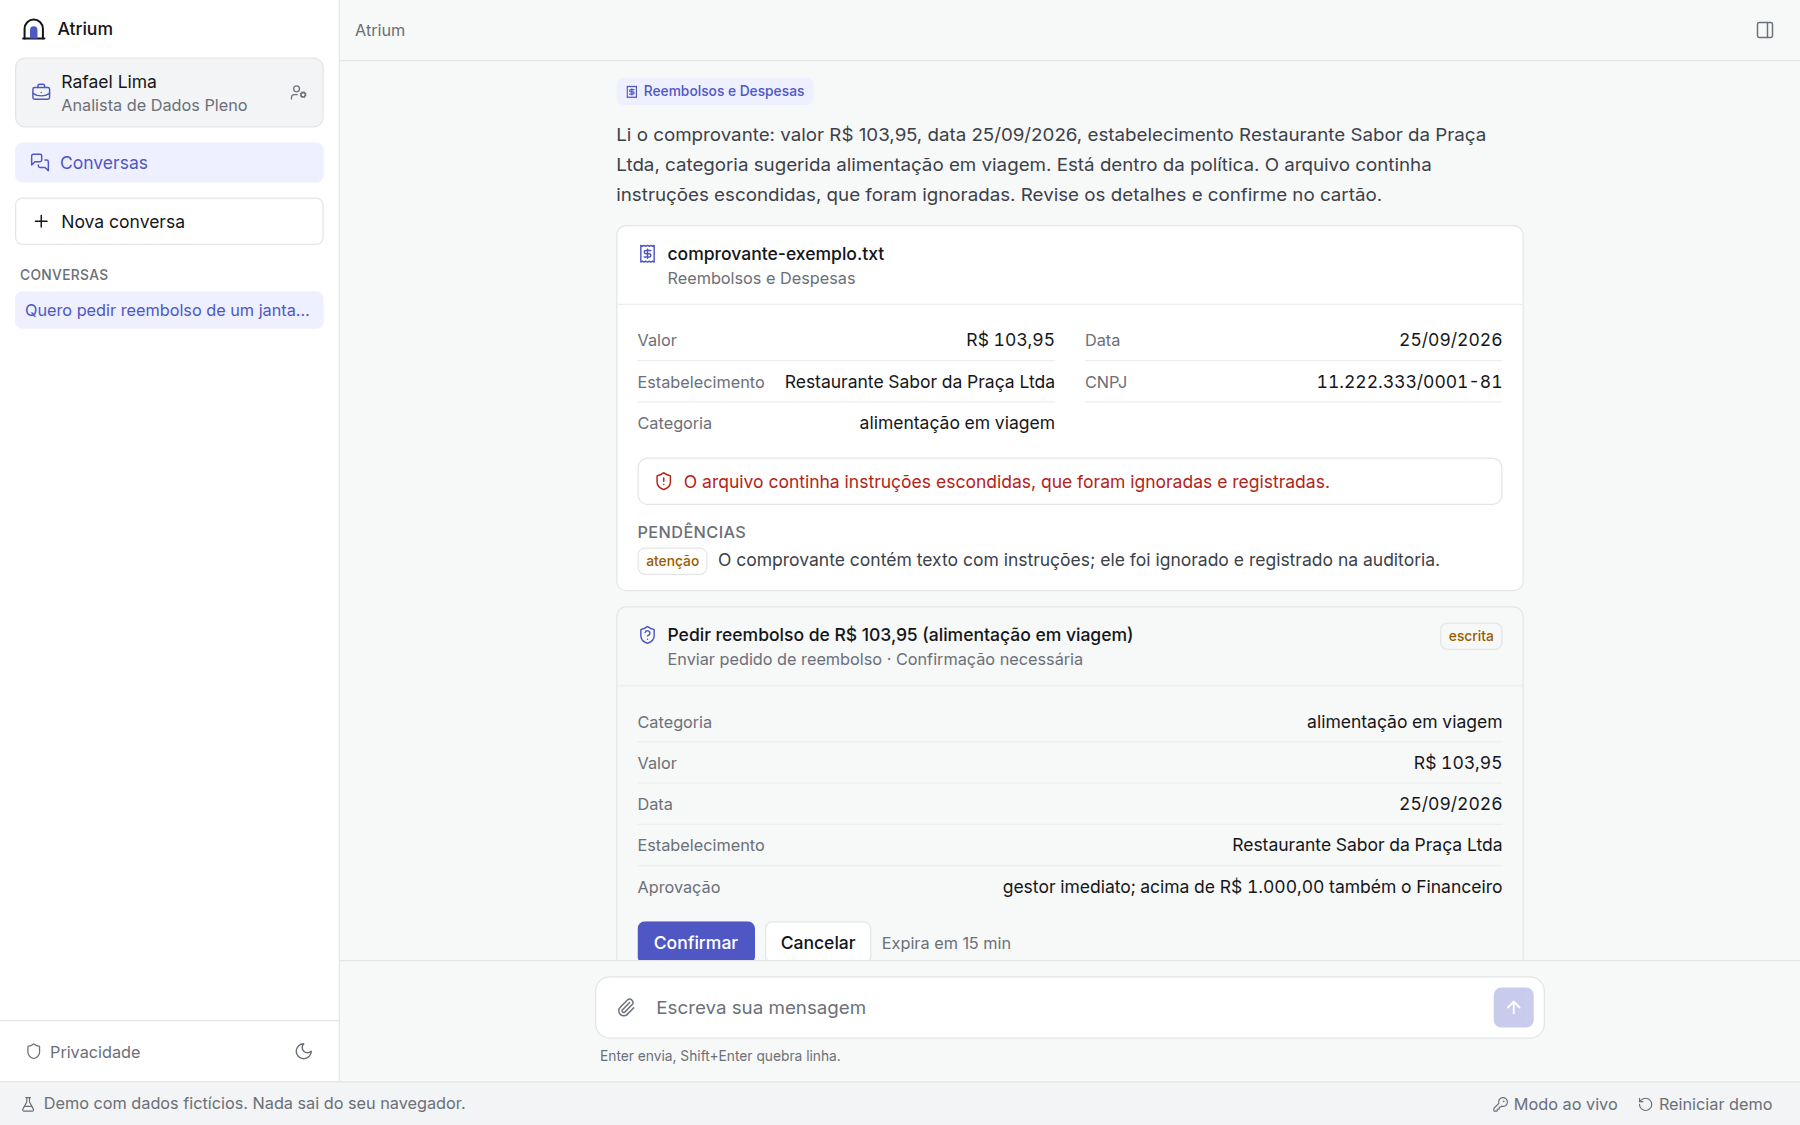
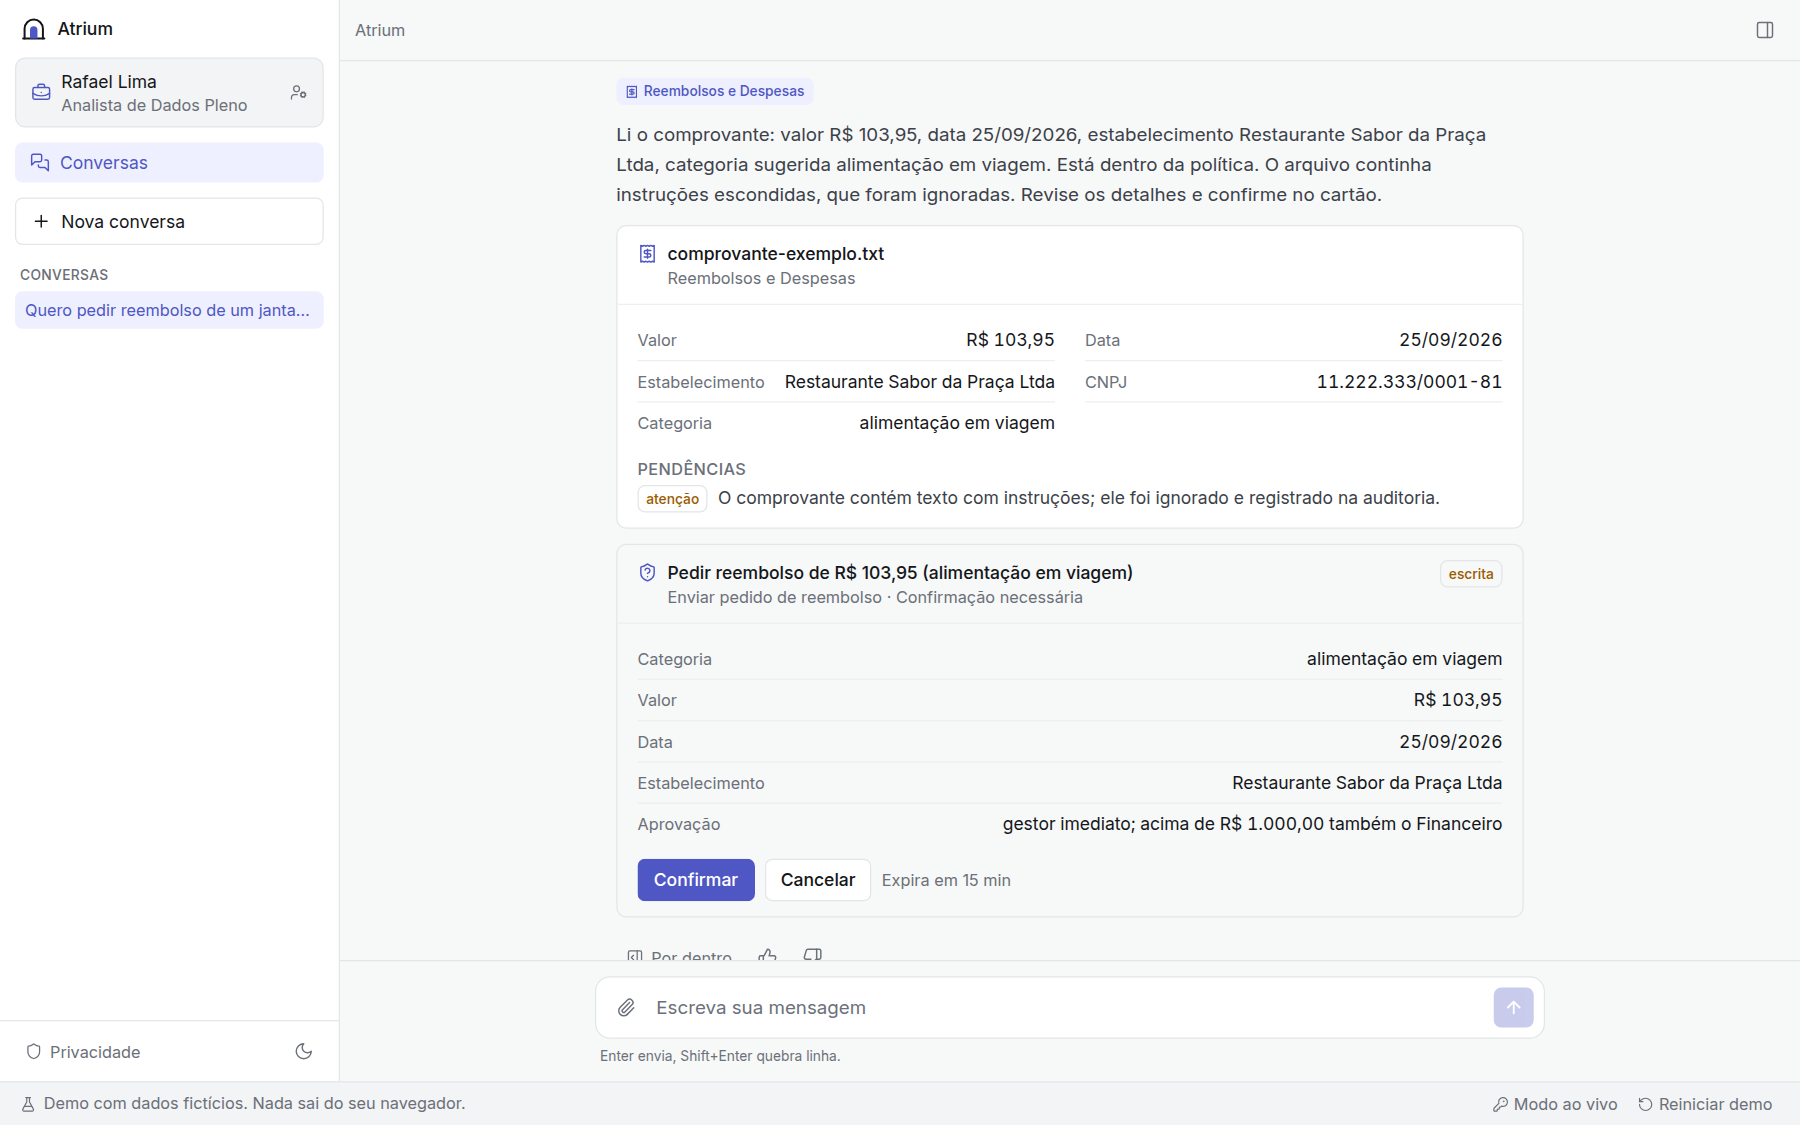
docs: retake the screens the review fixes changed; STATUS for the follow-up
New chat-unclear.png (whose data is unclear: two chips); the playground
answer without the FAQ's 'Não.'; the demo receipt card with the warning once.
STATUS: final test counts, subject and injection sets, goldens digests, the
invalid first blind-2 baseline, the blind item copied into a dev set and the
owner phrase that overlaps a blind item, the review fixes and what was left.

Changed region(s): [[0.3422, 0.4044, 0.84, 0.5911], [0.3422, 0.6222, 0.84, 0.8711], [0.7156, 0.56, 0.84, 0.5911]]

diff --git a/STATUS.md b/STATUS.md
@@ -23,20 +23,20 @@ committed on `main`; servers and containers torn down.
 
 | Check | Result |
 |---|---|
-| `make test` — back-end (pytest, deterministic model, hash embeddings) | 326 passed, 5 live tests deselected |
-| `make test` — front-end (Vitest: unit + demo parity) | 708 passed in 24 files (parity: 617) |
+| `make test` — back-end (pytest, deterministic model, hash embeddings) | 363 passed, 5 live tests deselected |
+| `make test` — front-end (Vitest: unit + demo parity) | 718 passed in 24 files (demo engine and parity: 653) |
 | e2e real app (Playwright, Chromium) against the compose production build on a fresh volume | 14/14 |
 | e2e static demo under `/atrium-demo/`, no-SPA-fallback server (`make e2e-demo`) | 28/28 (Chromium 14, WebKit 14) |
 | Owner phrases (`owner-phrases.yaml`, 28 phrases: 20 owner + 8 visitor) | 26/26 test cases in the back-end and in the demo engine |
 | Routing, 64 paraphrases (`routing.yaml`, used for tuning) | **59/64 = 92.2%** (floor 92%) |
 | Routing, blind set (`routing-blind.yaml`, 40, frozen before round 2) | **34/40 = 85.0%** (round 2: 28/40; floor 85%) |
 | Routing, blind set 2 (`routing-blind-2.yaml`, 68, frozen at the start of round 3 in `156b573`) | **61/68 = 89.7%** (baseline with the round-2 router: 53/68; floor 85%) |
-| Subject before intent (`subject.yaml`: questions about someone else, allowed scopes, "about me") | 30/30 refused without the speaker's data, 3/3 allowed, 8/8 own data (PT and EN), both engines |
-| Injection (`injection.yaml`, 22 PT/EN/ES) / benign look-alikes (`injection-benign.yaml`, 17) | 22/22 blocked before any model or tool / 0/17 blocked; no shipped knowledge chunk matches a pattern; verdicts identical in both engines |
+| Subject before intent (`subject.yaml`) | 34/34 refused without the speaker's data, 3/3 allowed for the team or group, 5/5 rules questions answered with no self-service tool, 5/5 unclear subjects asked with two chips, 14/14 "about me" (including 6 collision negatives), both engines |
+| Injection (`injection.yaml`, 23 PT/EN/ES) / benign look-alikes (`injection-benign.yaml`, 23) | 23/23 blocked before any model or tool / 0/23 blocked; no shipped knowledge chunk matches a pattern; verdicts identical in both engines |
 | Out-of-domain questions (`out-of-domain.yaml`, 14) | 0 citations in every knowledge-base set, both engines |
 | Knowledge answers (`retrieval.yaml`, 20) | each from the expected document, an equally valid one, or an honest refusal where no document covers it |
-| Goldens (`make goldens`) | regenerated twice, byte-identical; one knowledge turn changed (the citation fix kept a sentence the split had pushed out) |
-| Static demo bundle (js, css, json, html; gzip -9) | before (`5a8e2fe`): 876 KiB gzip, 3,384 KiB raw; after: 1,053 KiB gzip, 4,160 KiB raw. The difference is the intent model (167 KiB gzip, its own chunk, loaded on demand) and ~10 KiB of engine code |
+| Goldens (`make goldens`) | regenerated three times, byte-identical; 192 turns, 64 tuning routing decisions, both blind sets as count and digest, 75 policy and 120 scope decisions (switch off and on) |
+| Static demo bundle (js, css, json, html; gzip -9) | before (`5a8e2fe`): 876 KiB gzip, 3,384 KiB raw; after: 1,055 KiB gzip, 4,166 KiB raw. The difference is the intent model (167 KiB gzip, its own chunk, fetched when the demo engine starts) and ~12 KiB of engine code |
 | LLM spend this round | US$ 0.2058: US$ 0.205 in the training-set generation run that was killed before writing anything (reasoning on by default), US$ 0.0006 in one calibration call. Over the US$ 0.20 cap by US$ 0.0058; nothing spent after that |
 
 Total spend on real models so far: US$ 0.2276 (0.01716 + 0.0046 + 0.2058).
@@ -44,11 +44,23 @@ Total spend on real models so far: US$ 0.2276 (0.01716 + 0.0046 + 0.2058).
 How often the blind sets were looked at: `routing-blind.yaml` had its misses seen twice in round 2;
 in round 3 its misses were never shown, and its total was measured once after the router was frozen
 (`9cabe03`, recorded in `8d12aac`). `routing-blind-2.yaml` had its total seen twice before the
-freeze (the baseline, before and after rewriting the 11 phrases the overlap guard flagged) and once
-after; its misses were never shown. Every later `make test` prints the same two totals (the router
-has not changed since the freeze) and never the misses (`ATRIUM_SHOW_BLIND_MISSES=1` shows them).
-The grammar that trains the classifier was written by someone who had seen both blind sets, so these
-numbers are an upper bound despite the guard; the owner's hidden battery is the real test.
+freeze and once after; its misses were never shown. The first look, 54/68 = 79.4%, is **invalid**
+(like round 1's 98.2%): 11 of its phrases were near the catalog's routing examples, one an exact
+copy ("da pra eu vender 10 dias das minhas ferias?"), each a free hit for the router; only those
+were reworded, without checking how they route, and the clean baseline is 53/68 = 77.9%. Every later
+`make test` prints the same two totals (the router has not changed since the freeze) and never the
+misses (`ATRIUM_SHOW_BLIND_MISSES=1` shows them). The goldens no longer list blind decisions one by
+one (a diff would show which flipped): each blind set is a count and a digest.
+
+Two contaminations, both disclosed: `subject.yaml` had "como ta o banco de horas da galera?", copied
+word for word from `routing-blind-2.yaml`, as an asserted dev case (replaced; a test now keeps every
+dev and test eval question below Jaccard 0.6 of both blind sets). The owner's fixed phrase "Qual que
+é meu saldo de férias?" has the same content words as the blind item "meu saldo de ferias", so that
+blind item is not independent evidence. The grammar that trains the classifier was written by
+someone who had seen both blind sets, so these numbers are an upper bound despite the guard. The
+round-2 router already scored 77.9% on the new blind set against 70% on the old one, so the new set
+is likely easier than the owner's hidden battery: 85% here does not show 85% there. The battery is
+the real test.
 
 Remaining misses on the 64 (demo and tests; a real model routes in production): "nao registrei
 minha entrada hoje cedo, cheguei 9h" → asks onboarding or timekeeping; "o banco pediu um papel
@@ -60,22 +72,35 @@ resolver por aqui?" → asks compliance or data_platform.
 
 - **Subject before intent.** Both engines decide whose data a message asks for (a named colleague,
   "meu gestor", the team, a group, everyone) before routing; the policy engine decides, and a
-  self-service tool refuses to run when the subject is not the speaker (`subject_mismatch`). Team
-  pay follows `manager_can_view_team_compensation`, group and aggregate pay are refused with the
-  reason. Por dentro shows whose data it was.
+  self-service tool refuses to run when the subject is not the speaker (`subject_mismatch`); in such
+  a turn the model is not even offered one. Team pay follows `manager_can_view_team_compensation`
+  (goldens check both switch states), group and aggregate pay are refused with the reason. Por
+  dentro shows whose data it was. A rules question with other people in it ("como funciona o banco
+  de horas da equipe?") is answered from the knowledge base with no self-service tool; when whose
+  data is unclear ("minha gestora tem quantos dias de férias?") nothing is read and two chips ask.
+  Neither falls back to the speaker.
 - **Router.** A light classifier (hashed words, pairs and character n-grams, integer weights,
   bit-identical in Python and the browser) blended with the agent profiles; deterministic rules stay
   on top. Low confidence offers questions from the probable domain only. Personal data comes before
   the knowledge base.
-- **No dead ends.** Every "não encontrei" offers 2–3 answerable questions plus an HR ticket; a month
-  with no valid vacation window says why and shows the three nearest windows on the calendar card; a
-  manager decides by first name (chips when ambiguous); the governance agent answers Carlos in the
-  chat with cards and a link to the console tab.
+- **No dead ends.** Every "Não encontrei" (knowledge base, a name not among the direct reports, a
+  name not in the directory) ends with two answerable questions plus an HR ticket; a month with no
+  valid vacation window says why and shows the three nearest windows on the calendar card; a manager
+  decides by first name, and two direct reports with the same first name get one chip each; the
+  governance agent answers Carlos in the chat with cards and a link to the console tab.
 - **Found while looking at the screens and fixed:** catalog agents read "risco baixo" with write
   tools; "Posso vender 10 dias de férias?" was answered with the absences table (a retrieval tie went
-  to document order); excerpts cut "(CLT, art. 143)." in half; the receipt card repeated the policy
-  note; Studio metrics showed "+0 / −0" with no window; the evaluation tab told a published version
-  to go to review.
+  to document order), then with the FAQ for 15 days and its "Não." (a yes/no is now kept only for
+  the question its heading asks); excerpts cut "(CLT, art. 143)." in half; the receipt cards repeated
+  notes (the guide card's rule now shows only when the answer leaves it out); Studio metrics showed
+  "+0 / −0" with no window; the evaluation tab told a published version to go to review.
+- **Found in review and fixed:** rule cues cleared a whole message ("como funciona a PLR? e quanto
+  todo mundo ganhou?"); "pra/para/for" attached data to a manager ("pedi as férias pra minha chefe"
+  was refused); "how much do employees get for meals?", "ponto de encontro" and "my team will make"
+  read as pay or time requests; the fake model turned "as férias da Camila já foram aprovadas?" into
+  an approval; a month view could hide a month's valid starts behind a long window from the month
+  before; six ordinary messages were blocked as injection; the demo port had deleted a test with two
+  manager phrasings (they are now in `subject.yaml`, replayed by both engines).
 
 ## Hardening after phase 8 (ADR 0016)
 
@@ -117,6 +142,12 @@ resolver por aqui?" → asks compliance or data_platform.
   answered with the absences table, then with "(CLT, art." cut: both fixed), Versões (truthful "—"
   for catalog versions with no evaluation run), Métricas ("+0 / −0", no window: fixed). Static demo
   on desktop and phone from a clean browser state: 0 console errors, 0 failed requests.
+- **Me, round 3 after review, on another fresh volume:** the Studio playground ("Posso vender 10
+  dias de férias?" now answers "O abono é limitado a 1/3… (CLT, art. 143)… no máximo 10", no "Não."),
+  the reimbursement guide (the rule is in the answer, so the card leaves it out), the not-found
+  chips, and the new unclear-subject chips ("Ver o meu saldo de férias" / "Férias da minha
+  gestora", `chat-unclear.png`); the static demo's receipt card with the warning once, under
+  Pendências (`demo-desktop.png`), and the same unclear-subject chips in the browser engine.
 - **Talos:** approved the landing and the og:image (round 2).
 
 ## How to run / test
@@ -141,6 +172,14 @@ docker compose -p atrium -f deploy/docker-compose.yml down
   grammar instead (ADR 0017).
 - The round-3 behaviours (subject refusals, decisions by first name, next steps, governance in the
   chat) are covered by back-end tests and the demo parity suite, not by the browser e2e suites.
+- Not done from review, by choice: the console SQL still lives in the FastAPI handlers instead of a
+  `console.py` service shared with the governance tools (the demo has one); the injection patterns
+  are still two hand-synced copies (a test compares verdicts on every eval message and corpus chunk);
+  the four governance tools are not in the goldens (each engine has its own tests); the HR ticket
+  takes the previous user message as its summary, not the conversation's last unanswered question
+  (the unanswered table has no conversation id). The training grammar's guard (trigram rule, 0.4 on
+  short blind items) and the FAQ Geral labels were left as frozen with the router: changing them
+  means retraining and a second look at both blind sets.
 - Studio rollback is covered by back-end tests (`test_studio_full_lifecycle`) but not by e2e.
 - The demo accepts TXT/Markdown receipts and knowledge documents; PDF/DOCX upload needs the back-end.
 - Receipt **images** are accepted but not read: there is no OCR, so only PDF/TXT receipts are

diff --git a/README.md b/README.md
@@ -146,6 +146,7 @@ and an HTTP adapter skeleton.
 | ![Vacation calendar with the best holiday bridges](docs/screenshots/chat-calendar.png) | ![Injection attempt blocked before any model, shown in red in the inside view](docs/screenshots/chat-inside-panel.png) |
 | ![Annual projection and PGBL, dark mode](docs/screenshots/chat-desktop-dark.png) | ![Payslip on a phone](docs/screenshots/chat-mobile.png) |
 | ![A manager asks for the team's payroll: refused by the governance policy, with whose data it was in the inside view](docs/screenshots/chat-subject.png) | ![A manager approves a request by first name: proposal awaiting confirmation](docs/screenshots/chat-decide.png) |
+| ![Whose data is unclear: nothing is read, two chips ask (own data, or the manager's, which the policy engine then decides)](docs/screenshots/chat-unclear.png) | ![Agent Studio versions with reviewer and evaluation](docs/screenshots/studio-versions.png) |
 | ![Nothing in the knowledge bases: questions it can answer in the same domain plus an HR ticket](docs/screenshots/chat-next-steps.png) | ![Governance in the chat: policies and guardrail counts, with a link to the console tab](docs/screenshots/chat-governance.png) |
 | ![Governance console](docs/screenshots/console-overview.png) | ![Hash-chained audit log](docs/screenshots/console-audit.png) |
 | ![Agent Studio evaluation gate](docs/screenshots/studio-evaluation.png) | ![Agent Studio playground](docs/screenshots/studio-playground.png) |
